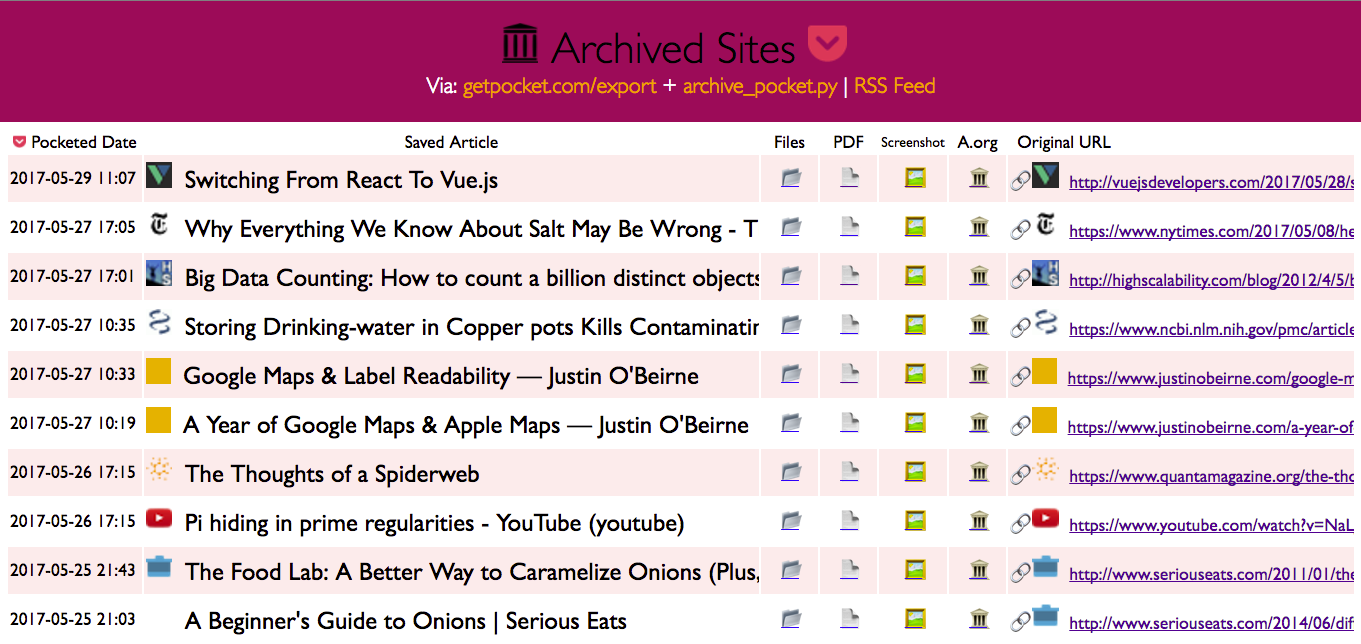
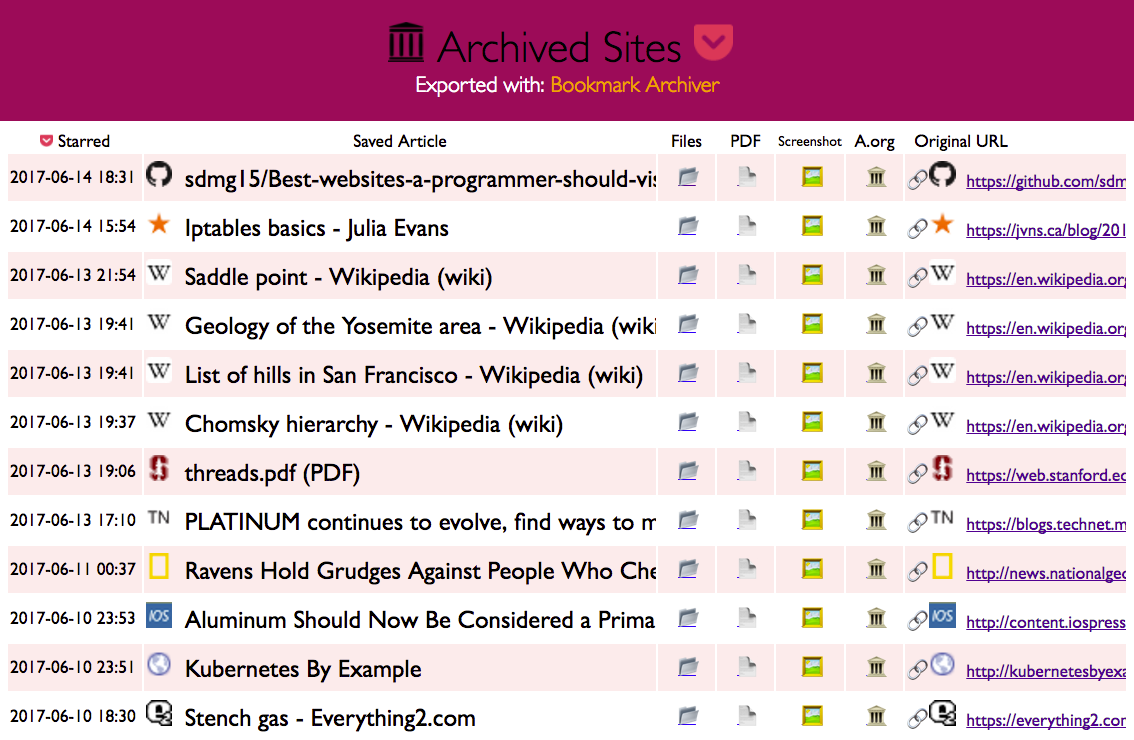
move examples export files into directory

Changed region(s): [[0.0, 0.559, 1.0, 0.9938], [0.0, 0.0311, 1.0, 0.528]]

diff --git a/examples/firefox_export.html b/examples/firefox_export.html
@@ -1,0 +1,32 @@
+<!DOCTYPE NETSCAPE-Bookmark-file-1>
+<!-- This is an automatically generated file.
+     It will be read and overwritten.
+     DO NOT EDIT! -->
+<META HTTP-EQUIV="Content-Type" CONTENT="text/html; charset=UTF-8">
+<TITLE>Bookmarks</TITLE>
+<H1>Bookmarks Menu</H1>
+
+<DL><p>
+    <DT><A HREF="place:folder=BOOKMARKS_MENU&folder=UNFILED_BOOKMARKS&folder=TOOLBAR&queryType=1&sort=12&maxResults=10&excludeQueries=1" ADD_DATE="1409779227" LAST_MODIFIED="1470506008">Recently Bookmarked</A>
+    <DT><A HREF="place:type=6&sort=14&maxResults=10" ADD_DATE="1470506008" LAST_MODIFIED="1470506008">Recent Tags</A>
+    <HR>    <DT><H3 ADD_DATE="1409779227" LAST_MODIFIED="1409779227">Mozilla Firefox</H3>
+    <DL><p>
[4 lines of base64/hex data omitted]
+    </DL><p>
+    <DT><H3 ADD_DATE="1497562973" LAST_MODIFIED="1497562974">[Folder Name]</H3>
+    <DL><p>
[4 lines of base64/hex data omitted]
+    </DL><p>
+    <DT><H3 ADD_DATE="1409779227" LAST_MODIFIED="1470506008" PERSONAL_TOOLBAR_FOLDER="true">Bookmarks Toolbar</H3>
+    <DD>Add bookmarks to this folder to see them displayed on the Bookmarks Toolbar
+    <DL><p>
+        <DT><A HREF="place:sort=8&maxResults=10" ADD_DATE="1470506008" LAST_MODIFIED="1470506008">Most Visited</A>
+        <DT><A HREF="https://www.mozilla.org/en-US/firefox/central/" ADD_DATE="1409779227" LAST_MODIFIED="1409779227">Getting Started</A>
+    </DL><p>
+</DL>
